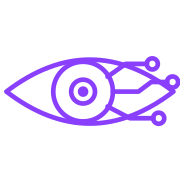
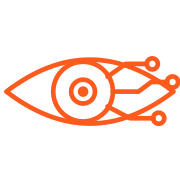
Switch the accent color to San Francisco Giants orange
Giants orange (#FD5A1E) in dark mode; deepened to #BF4008 in light mode so
link text clears 4.5:1 on white. Neutrals warmed to match, focus ring moved
to purple so it stays distinct from the accent, and the icons recolored.

Claude-Session: https://claude.ai/code/session_01QCwVV4EjLCqcacceHMoBMy

Changed region(s): [[0.0, 0.3056, 1.0, 0.7222], [0.3611, 0.4167, 0.5556, 0.6111]]

diff --git a/public/styles.css b/public/styles.css
@@ -1,20 +1,22 @@
 /* A Blind View Tech — site styles
    Theme: follows the device (prefers-color-scheme) by default; a manual
    override sets data-theme="light" or "dark" on <html>. All colors are
-   tokens so both themes stay in sync. Contrast is at least 4.5:1 for text
-   and 3:1 for UI parts in both modes. */
+   tokens so both themes stay in sync. The accent is San Francisco Giants
+   orange (#FD5A1E), deepened to #BF4008 in light mode so link text clears
+   4.5:1 on white. Contrast is at least 4.5:1 for text and 3:1 for UI parts
+   in both modes. */
 
 :root {
   color-scheme: light;
   --bg: #FFFFFF;
-  --bg-raised: #F6F3FC;
-  --ink: #1B1530;
-  --ink-soft: #4A4360;
-  --brand: #5B2BC7;        /* links, logo, accents — 7.3:1 on white */
+  --bg-raised: #FBF3EE;
+  --ink: #27251F;
+  --ink-soft: #55504A;
+  --brand: #BF4008;        /* deepened Giants orange — 5.3:1 on white */
   --brand-ink: #FFFFFF;    /* text on a --brand background */
-  --line: #D6CFE8;
-  --focus: #B34700;        /* 4.8:1 on white, distinct from brand */
-  --error: #B3261E;
+  --line: #E0D3C9;
+  --focus: #5B2BC7;        /* purple, so focus never reads as the accent */
+  --error: #A81E12;
   --success-bg: #E6F4EA;
   --success-ink: #0B5A1F;
 }
@@ -22,33 +24,33 @@
 @media (prefers-color-scheme: dark) {
   :root:not([data-theme="light"]) {
     color-scheme: dark;
-    --bg: #0F0B1A;
-    --bg-raised: #1B1530;
-    --ink: #F1EDFA;
-    --ink-soft: #C5BDDA;
-    --brand: #C9AEFF;      /* 11:1 on #0F0B1A */
-    --brand-ink: #1B1530;
-    --line: #3B3352;
-    --focus: #FFB454;
+    --bg: #14110F;
+    --bg-raised: #221D19;
+    --ink: #F7F2ED;
+    --ink-soft: #D2C7BE;
+    --brand: #FD5A1E;      /* Giants orange — 6:1 on #14110F */
+    --brand-ink: #14110F;
+    --line: #453B33;
+    --focus: #C9AEFF;
     --error: #FF9B94;
-    --success-bg: #163A22;
-    --success-ink: #C8F0D2;
+    --success-bg: #16351F;
+    --success-ink: #C6EFD0;
   }
 }
 
 :root[data-theme="dark"] {
   color-scheme: dark;
-  --bg: #0F0B1A;
-  --bg-raised: #1B1530;
-  --ink: #F1EDFA;
-  --ink-soft: #C5BDDA;
-  --brand: #C9AEFF;
-  --brand-ink: #1B1530;
-  --line: #3B3352;
-  --focus: #FFB454;
+--bg: #14110F;
+  --bg-raised: #221D19;
+  --ink: #F7F2ED;
+  --ink-soft: #D2C7BE;
+  --brand: #FD5A1E;      /* Giants orange — 6:1 on #14110F */
+  --brand-ink: #14110F;
+  --line: #453B33;
+  --focus: #C9AEFF;
   --error: #FF9B94;
-  --success-bg: #163A22;
-  --success-ink: #C8F0D2;
+  --success-bg: #16351F;
+  --success-ink: #C6EFD0;
 }
 
 *, *::before, *::after { box-sizing: border-box; }

diff --git a/public/index.html b/public/index.html
@@ -7,7 +7,7 @@
   <meta name="description" content="Dwayne Davis builds accessible, secure websites for small businesses and nonprofits in Sacramento and beyond. Screen-reader tested, WCAG 2.2 AA, fast and affordable.">
   <meta name="color-scheme" content="light dark">
   <meta name="theme-color" content="#FFFFFF" media="(prefers-color-scheme: light)">
-  <meta name="theme-color" content="#0F0B1A" media="(prefers-color-scheme: dark)">
+  <meta name="theme-color" content="#14110F" media="(prefers-color-scheme: dark)">
   <link rel="canonical" href="https://ablindviewtech.com/">
   <link rel="icon" href="/assets/favicon.svg" type="image/svg+xml">
   <link rel="apple-touch-icon" href="/assets/apple-touch-icon.png">

diff --git a/public/accessibility.html b/public/accessibility.html
@@ -7,7 +7,7 @@
   <meta name="description" content="How ablindviewtech.com is built to be accessible, and how to report a problem.">
   <meta name="color-scheme" content="light dark">
   <meta name="theme-color" content="#FFFFFF" media="(prefers-color-scheme: light)">
-  <meta name="theme-color" content="#0F0B1A" media="(prefers-color-scheme: dark)">
+  <meta name="theme-color" content="#14110F" media="(prefers-color-scheme: dark)">
   <link rel="icon" href="/assets/favicon.svg" type="image/svg+xml">
   <link rel="apple-touch-icon" href="/assets/apple-touch-icon.png">
   <link rel="preconnect" href="https://fonts.googleapis.com">

diff --git a/public/sorry.html b/public/sorry.html
@@ -7,7 +7,7 @@
   <meta name="description" content="The contact form could not send your message.">
   <meta name="color-scheme" content="light dark">
   <meta name="theme-color" content="#FFFFFF" media="(prefers-color-scheme: light)">
-  <meta name="theme-color" content="#0F0B1A" media="(prefers-color-scheme: dark)">
+  <meta name="theme-color" content="#14110F" media="(prefers-color-scheme: dark)">
   <link rel="icon" href="/assets/favicon.svg" type="image/svg+xml">
   <link rel="apple-touch-icon" href="/assets/apple-touch-icon.png">
   <link rel="preconnect" href="https://fonts.googleapis.com">

diff --git a/public/thanks.html b/public/thanks.html
@@ -7,7 +7,7 @@
   <meta name="description" content="Your message to A Blind View Tech was sent.">
   <meta name="color-scheme" content="light dark">
   <meta name="theme-color" content="#FFFFFF" media="(prefers-color-scheme: light)">
-  <meta name="theme-color" content="#0F0B1A" media="(prefers-color-scheme: dark)">
+  <meta name="theme-color" content="#14110F" media="(prefers-color-scheme: dark)">
   <link rel="icon" href="/assets/favicon.svg" type="image/svg+xml">
   <link rel="apple-touch-icon" href="/assets/apple-touch-icon.png">
   <link rel="preconnect" href="https://fonts.googleapis.com">
